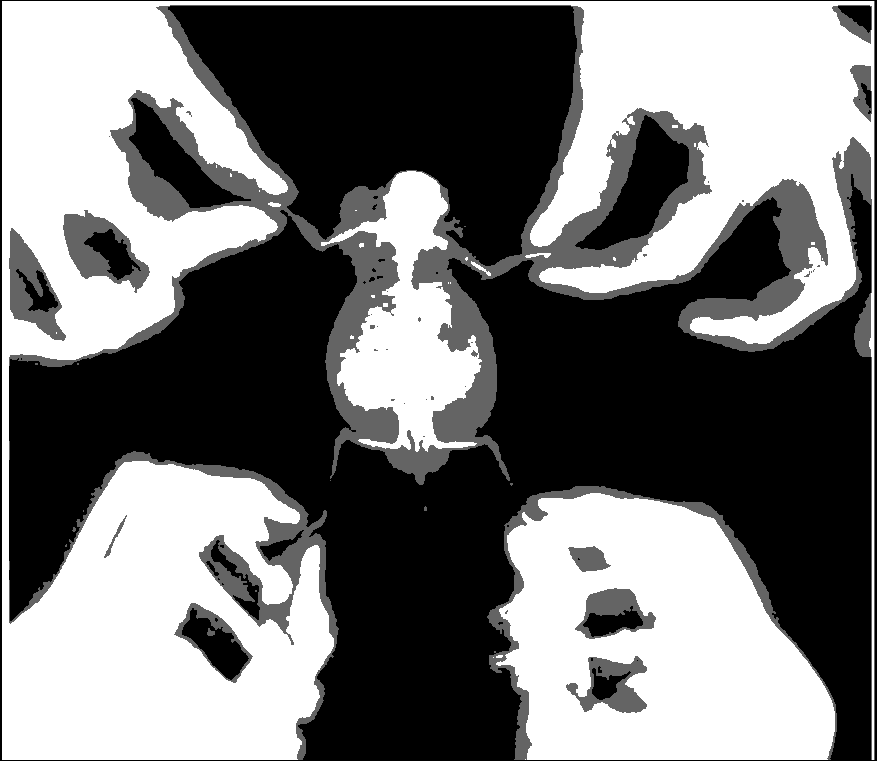
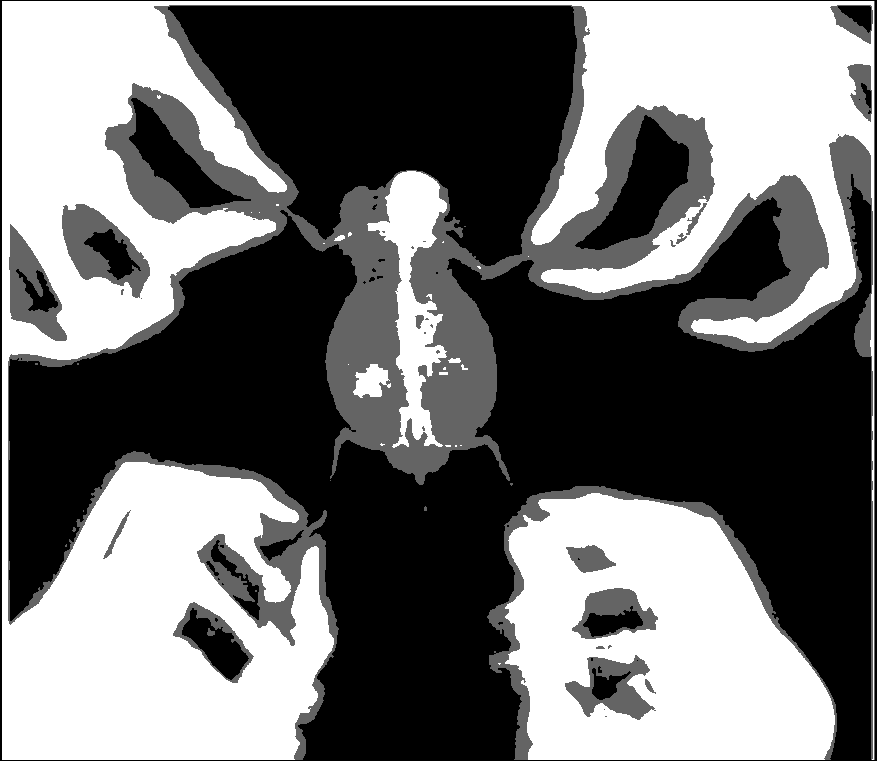
Contrast changed once more 2

diff --git a/work/main.c b/work/main.c
@@ -104,7 +104,7 @@ int main() {
     //contrast again
     for (i = 0; i < ih*iw; i++) {
         if (newIm[i] < 20) newIm[i] = 0;
-        if (newIm[i] > 60) newIm[i] = 255;
+        if (newIm[i] > 65) newIm[i] = 255;
         if ((newIm[i] != 0) && (newIm[i] != 255)) newIm[i] = 100;
     }
 
